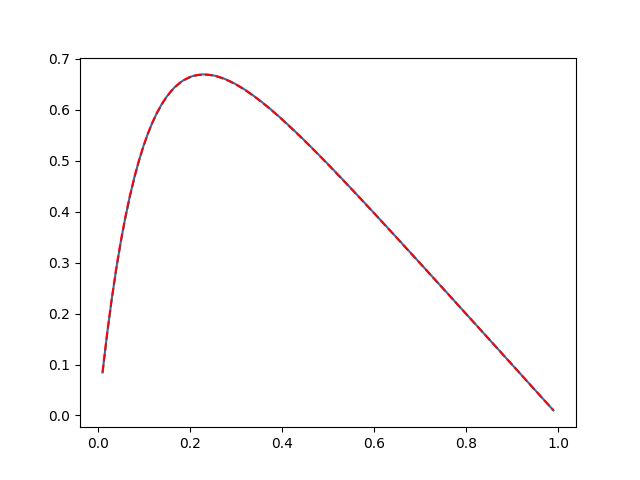
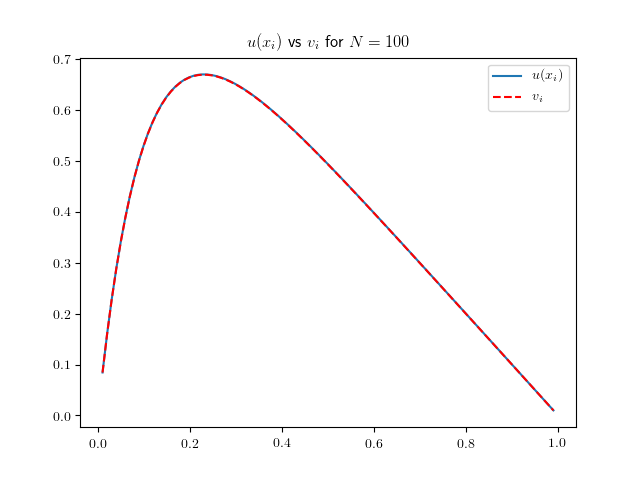
:cake:

diff --git a/Project 1/uvplot.py b/Project 1/uvplot.py
@@ -13,8 +13,11 @@ def uv_plot():
         x = np.linspace(0, 1, n+2)
 
         # TODO: add legends!
-        plt.plot(x[1:-1], u)
-        plt.plot(x[1:-1], v, 'r--')
+        plt.rc('text', usetex=True)
+        plt.title(r"$u(x_i)$ vs $v_i$ for $N = {}$".format(n))
+        plt.plot(x[1:-1], u, label=r"$u(x_i)$")
+        plt.plot(x[1:-1], v, 'r--', label=r"$v_i$")
+        plt.legend()
         plt.savefig("results/uvplot" + str(n) + ".png")
         plt.figure()
 
